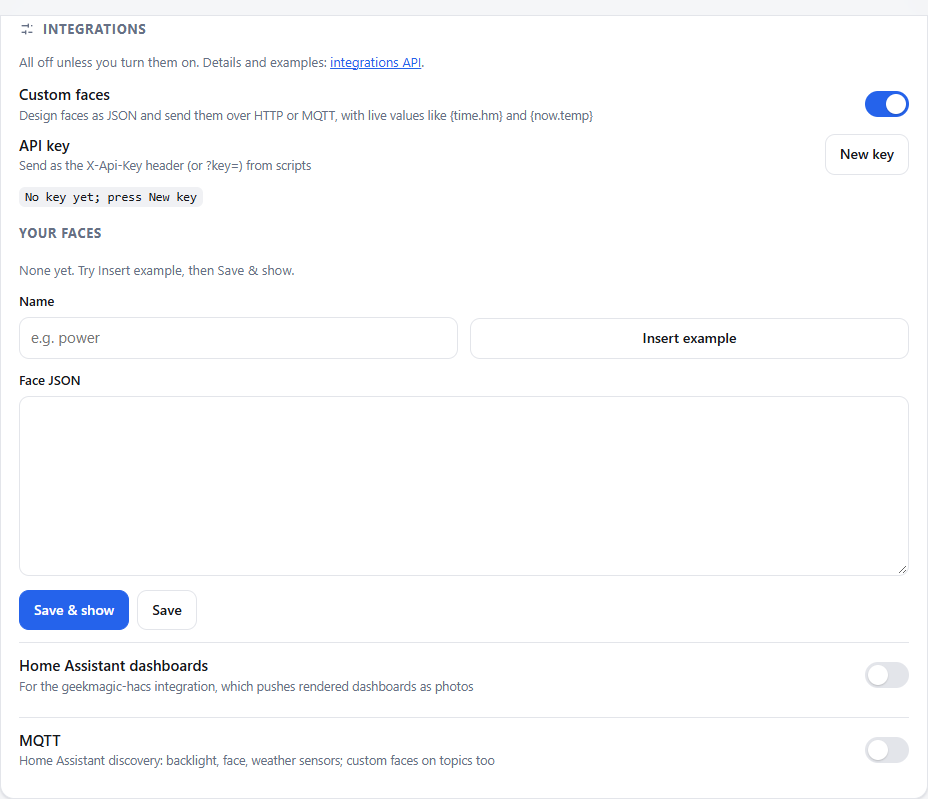
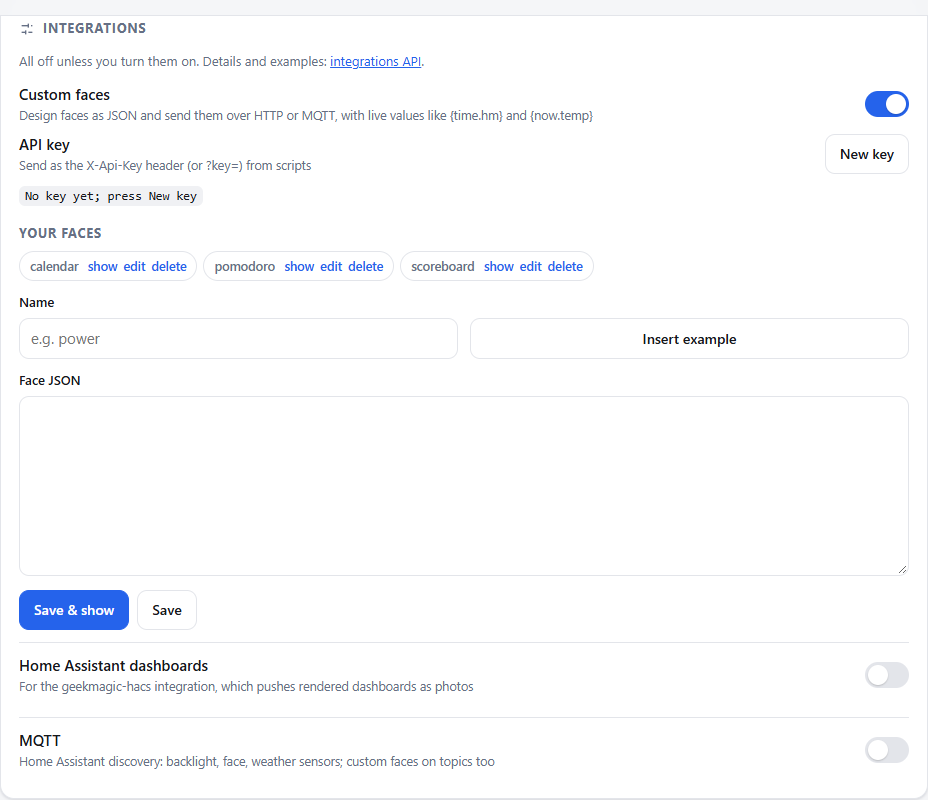
docs: 5 more example faces, colours and rotation in the README, new screenshots
big-time, big-date and big-weather (the Big tiles as JSON, in the clock's colours),
scoreboard and a flashing alarm. The settings screenshots show custom faces in the
rotation and the Colours card. Scripts read the face files as UTF-8.

diff --git a/scripts/screenshots.py b/scripts/screenshots.py
@@ -79,7 +79,7 @@ def clock_images(emu):
 
     # Custom faces from examples/faces, with their sample values.
     shots, labels = [], []
-    samples = json.loads((EXAMPLES / "samples.json").read_text())
+    samples = json.loads((EXAMPLES / "samples.json").read_text(encoding="utf-8"))
     (IMAGES / "faces").mkdir(exist_ok=True)
     for path in sorted(EXAMPLES.glob("*.json")):
         if path.name == "samples.json":
@@ -87,7 +87,7 @@ def clock_images(emu):
         emu.clear_vars()
         emu.clear_messages()
         emu.apply_sample(samples.get(path.stem, {}))
-        emu.push_face(path.stem, json.loads(path.read_text()), show=True)
+        emu.push_face(path.stem, json.loads(path.read_text(encoding="utf-8")), show=True)
         take(path.stem)
         shots[-1].save(IMAGES / "faces" / f"{path.stem}.png", optimize=True)
         emu.delete_face(path.stem)
@@ -119,7 +119,7 @@ def clock_images(emu):
                          ("done", {"title": "Release 1.4.0", "msg": "Published"}),
                          ("error", {"title": "CI", "msg": "2 tests failed"})):
         emu.vars(**values)
-        emu.push_face(f"agent-{name}", json.loads((SKILL_EXAMPLES / f"{name}.json").read_text()), show=True)
+        emu.push_face(f"agent-{name}", json.loads((SKILL_EXAMPLES / f"{name}.json").read_text(encoding="utf-8")), show=True)
         take(f"skill face: {name}")
         emu.delete_face(f"agent-{name}")
     sheet(shots, 4, IMAGES / "agent-screens.png", labels=labels)
@@ -131,6 +131,11 @@ def web_images(emu):
     except ImportError:
         raise SystemExit("The settings page needs Playwright: pip install playwright (or use --no-web)")
     url = f"{emu.api}/#password={emu.password()}"   # the emulator build's sign-in link
+    # The rotation with a few custom faces: one with its own time, one turned off.
+    shown = ("calendar", "scoreboard", "pomodoro")
+    for name in shown:
+        emu.push_face(name, json.loads((EXAMPLES / f"{name}.json").read_text(encoding="utf-8")))
+    emu.settings(themeInterval=10, turns="#7=20,scoreboard=30", customoff="pomodoro")
 
     def card(page, title):
         return page.locator(f"section.card:has(h2:has-text('{title}'))").first
@@ -176,6 +181,9 @@ def web_images(emu):
         page.screenshot(path=str(IMAGES / "settings-phone.png"))
         page.close()
         browser.close()
+    for name in shown:
+        emu.delete_face(name)
+    emu.settings(themeInterval=0, turns="", customoff="")
 
 
 def main():

diff --git a/README.md b/README.md
@@ -23,9 +23,9 @@ from a reverse-engineering of the stock firmware; no vendor code is reused.
 - **Custom faces.** Agents (or you) design whole screens as JSON: text, shapes with
   borders, SVG paths (Lucide or Material icons as they are), gradients, gauges, pixel
   art, charts, lists, live values (time, weather, forecast, sun, moon, network, your
-  own variables), expressions, palettes and animation. They are saved on the clock and
-  join the rotation, or appear only when they have something to show. A JSON Schema
-  checks them. [32 examples](examples/faces).
+  own variables), expressions, palettes, large text in the Big tiles' font and
+  animation. They are saved on the clock and join the rotation, or appear only when
+  they have something to show. A JSON Schema checks them. [37 examples](examples/faces).
 - **A Claude Code plugin** that teaches Claude the API, with examples. See
   [Claude Code plugin](#claude-code-plugin).
 - **Clock faces:** Classic, Simple, Weather, Forecast, Photo, and the **Big tiles**:
@@ -33,7 +33,13 @@ from a reverse-engineering of the stock firmware; no vendor code is reused.
   Weather forecast - Day 1, 2 and 3), each showing one thing as large as the screen
   allows. The Day tiles lead with the feels-like temperature, then wind, humidity,
   sunrise and sunset, low, high and precipitation; Weather today shows the current
-  conditions. You choose which faces rotate, in what order and how often; faces with nothing to show are skipped.
+  conditions. You choose which faces rotate (built-in and custom alike), in what
+  order, how often, and how long each one stays; faces with nothing to show are
+  skipped.
+- **Colours:** palettes of named colours for day and night, and every part of the
+  faces (time, date, highlights, weather icons, temperatures, background, text …)
+  bound to one of them, or to a rule such as "blue below 0°, orange above". Custom
+  faces can use the same colours, so everything matches.
 - **Weather and a 4-day forecast with no API key**, from
   [Open-Meteo](https://open-meteo.com/), drawn with
   [Weather Icons](https://erikflowers.github.io/weather-icons/) (day and night).
@@ -178,8 +184,11 @@ clock's own values (`{time.hm}`, `{date.wday}`, `{now.temp}`, `{day1.high}`,
 update over HTTP or MQTT: with an expiry (`$ttl`), kept across restarts (`$persist`),
 added up (`$add`) or kept as a history for charts (`$history`). Number and colour fields
 take expressions, and so does text in braces; **maps** turn values into colours or
-labels, and **palettes** recolour a whole face (day and night, or by state). A face
-joins the rotation, or only `when` a condition holds, for as long as its `duration`.
+labels, and **palettes** recolour a whole face (day and night, or by state); `@time`,
+`@bg`, `@warn` … are the clock's own colours, so a face can match the built-in ones.
+`"font": "big"` draws the Big tiles' line font at any size, with `° ↑ ↓ ✓ ✗ ♥ ⚡`. A
+face joins the rotation, or only `when` a condition holds, for as long as its
+`duration`.
 
 Turn them on in **Integrations → Custom faces**, which also gives the API key for
 scripts:
@@ -194,16 +203,16 @@ The format is in
 and `face.schema.json` in the [Claude Code plugin](#claude-code-plugin)'s skill is its
 JSON Schema (`clock.py check face.json` validates a face and its placeholder names).
 
-[`examples/faces/`](examples/faces) has 32 ready-made faces, each described with what
+[`examples/faces/`](examples/faces) has 37 ready-made faces, each described with what
 it demonstrates and the variables it reads: clocks (analog, binary, a 1980s watch, a
-month calendar), weather (a forecast strip, the sun's path, the moon's phase, a
+month calendar, the Big tiles redone in JSON), weather (a forecast strip, the sun's path, the moon's phase, a
 day/night beach, what to wear, a window on the sky, golden hour), faces for agents
 and work (an inbox of agent messages, a CI pipeline, a heartbeat watchdog that
 appears when an agent goes quiet, a pomodoro timer, a countdown, a commit streak, a
 KPI with its trend, a homelab, a battery, a pixel pet, and an animated Claude
-mascot), and two pixel-art games (a block world and a retro runner).
+mascot, a scoreboard, a flashing alarm), and two pixel-art games (a block world and a retro runner).
 
-![The 32 example custom faces](docs/images/custom-faces.png)
+![The 37 example custom faces](docs/images/custom-faces.png)
 
 ```bash
 curl -X POST "http://<clock>/api/faces?name=synthwave&show=1&key=<api key>" --data-binary @examples/faces/synthwave.json

diff --git a/examples/faces/README.md b/examples/faces/README.md
@@ -1,6 +1,6 @@
 # Example custom faces
 
-32 faces to use as they are, adapt, or learn the format from. Each is a JSON file to
+37 faces to use as they are, adapt, or learn the format from. Each is a JSON file to
 push to the clock (`POST /api/faces`, or `python clock.py push <name> <file>` from the
 Claude Code skill); the format is in
 [docs/specifications/integrations-api.md](../../docs/specifications/integrations-api.md#custom-faces).
@@ -25,6 +25,9 @@ curl -X POST "http://<clock>/api/faces/vars?key=<api key>" -d '{"pet": "Bit", "m
 | ![](../../docs/images/faces/calendar.png) | **calendar**: the month, today circled | A 6-week grid from `{date.wdaynum}`, `{date.mdays}` and one `repeat`; weekday initials from a map |
 | ![](../../docs/images/faces/terminal.png) | **terminal**: a shell session | A blinking cursor; status colours from a map; `{age.agent}`. Push `agent` |
 | ![](../../docs/images/faces/night-light.png) | **night-light**: a dim face for the bedside | `"when": "{theme.night}"`: in the rotation only during night hours |
+| ![](../../docs/images/faces/big-time.png) | **big-time**: the Big time tile, in JSON | `"font": "big"` at 95 px; `@text` and `@time`, so it follows the clock's colours |
+| ![](../../docs/images/faces/big-date.png) | **big-date**: the Big date tile, in JSON | Big text shrunk to fit with `w`; `@date`; an opaque `bg` so each line redraws alone |
+| ![](../../docs/images/faces/big-weather.png) | **big-weather**: the Big weather tile, in JSON | A weather `icon` in `@icon`; the degree sign `°`, which only the big font has |
 
 ## Weather, sun and moon
 
@@ -50,6 +53,7 @@ curl -X POST "http://<clock>/api/faces/vars?key=<api key>" -d '{"pet": "Bit", "m
 | ![](../../docs/images/faces/agent-inbox.png) | **agent-inbox**: every agent message | `repeat` over `"msgs"`; a count badge; `"when": "{msg.count}>0"`. Post messages |
 | ![](../../docs/images/faces/ci-pipeline.png) | **ci-pipeline**: the last build | A palette per state; labels from a map; a `spark` of build times. Push `build` (`ok`, `running`, `fail`), `repo`, `branch`, `commit`, `author`, `fails`, `pct`; `mins` with `$history` |
 | ![](../../docs/images/faces/heartbeat.png) | **heartbeat**: an agent that went quiet | `"when": "{age.beat\|99999}>300"`: the face appears by itself when `beat` stops being pushed. Push `beat` (anything) and `agent` |
+| ![](../../docs/images/faces/alarm.png) | **alarm**: a flashing alarm | A palette chosen by `{time.sec}%2` swaps the whole face between two colour sets every second; `"when": "{alarm}"`: in the rotation only while an alarm is set; `{age.alarm}` for how long. Push `alarm` (the text; `null` clears it) and `source` |
 | ![](../../docs/images/faces/pomodoro.png) | **pomodoro**: a focus timer | A countdown from a Unix time (`{until}-{time.epoch}`); `"when"` while it runs. Push `until` (Unix time), `len` (seconds), `task`, `mode` (`focus`, `break`) |
 | ![](../../docs/images/faces/countdown.png) | **countdown**: days to an event | Days and hours from a Unix time; confetti on the day. Push `event`, `at` (Unix time) |
 | ![](../../docs/images/faces/commit-streak.png) | **commit-streak**: today's commits | `$add` counters; a flickering flame `sprite`; a `spark`. Push `commits` (with `$add`), `streak`, `repo`; `daily` with `$history` |
@@ -58,6 +62,7 @@ curl -X POST "http://<clock>/api/faces/vars?key=<api key>" -d '{"pet": "Bit", "m
 | ![](../../docs/images/faces/power-cell.png) | **power-cell**: a battery | A width from a value; colour by level; a bolt shown while charging. Push `batt`, `charging` (1 or 0), `eta`, `device` |
 | ![](../../docs/images/faces/pixel-pet.png) | **pixel-pet**: a pet that needs feeding | A blinking `sprite` coloured by mood through a map; a food bar. Push `pet`, `mood` (`happy`, `hungry`, `sleepy`), `food` (0-100) |
 | ![](../../docs/images/faces/claude-mascot.png) | **claude-mascot**: Claude Code at work | One `sprite` with 9 frames chosen by an expression: typing, cheering, thinking, a slump on failure, asleep at night; a message badge. Push `state` (`thinking`, `working`, `done`, `fail`, or none), `task` |
+| ![](../../docs/images/faces/scoreboard.png) | **scoreboard**: passes and failures, stadium style | Big text with `✓ ✗ ↑ ↓`; zero-padded numbers (`{fail:03|000}`); a colour from a value (`{fail}>0`); `@time`. Push `pass` and `fail` (with `$add`) |
 
 ## Games and worlds
 

diff --git a/CLAUDE.md b/CLAUDE.md
@@ -218,6 +218,10 @@ change.
   repository's `.claude/settings.json` enables the plugin from the GitHub marketplace,
   so sessions here get the published (`main`) version; try local skill edits with
   `claude --plugin-dir plugins/ai-agent-monitor`.
+- Settings for faces and colours (rotation entries, palettes, roles) are specified in
+  `docs/specifications/settings.md`; keep it, `applySetting()`, `configJson()` and the
+  settings page in step. Role names live in `ROLE_NAMES` (`src/faces.cpp`), in the
+  page's `ROLES`, and in `clock.py`'s `FIELDS["theme"]`.
 - Example faces (`examples/faces/`): at most 4 KB minified and 32 items each, valid
   for `clock.py check`. `samples.json` holds the variables, histories and messages
   each one is shown with (`"@+N"`: N seconds after the test time; `"@age N value"`:
